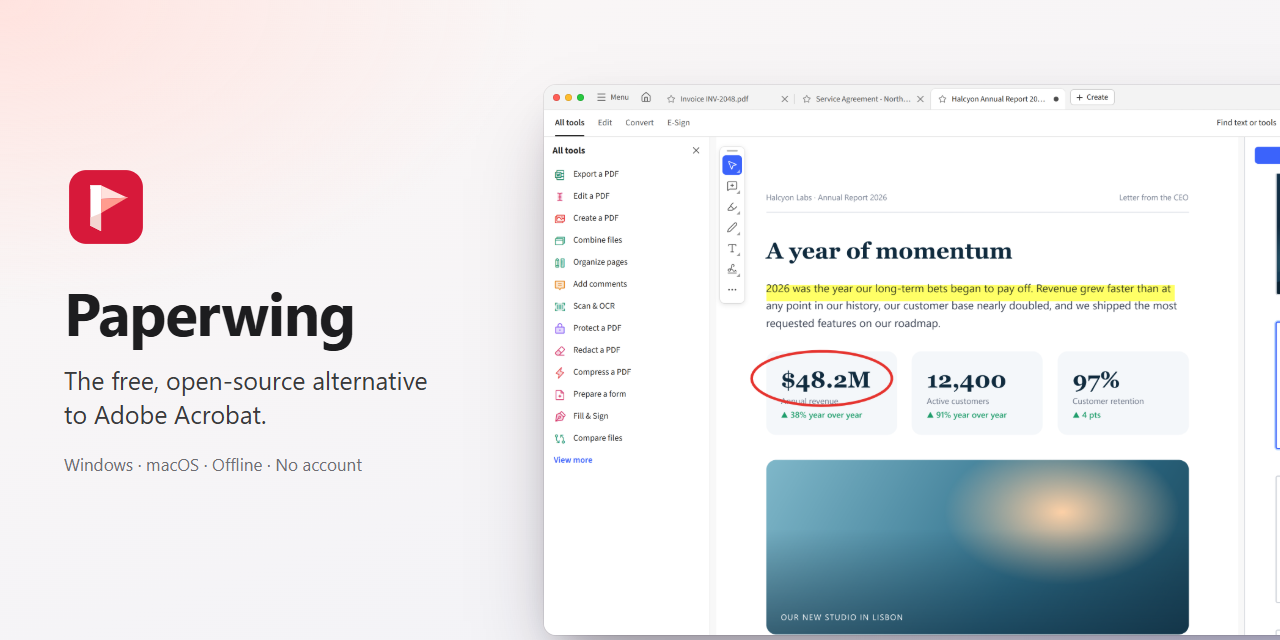
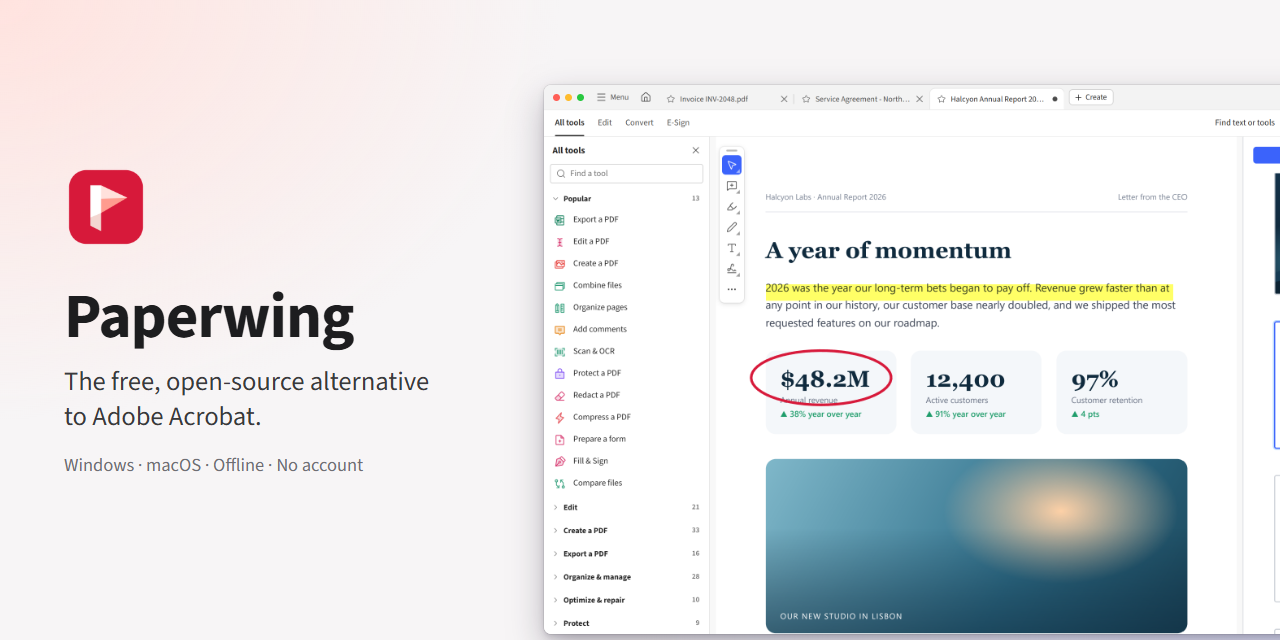
Regenerate the social preview image too
It showed the old tools sidebar. The screenshot script's hero scene now
also renders social-preview.png (1280×640, same layout as before) from
the same capture. GitHub uses it once it's uploaded in the repository
settings.

diff --git a/docs/BUILDING.md b/docs/BUILDING.md
@@ -70,8 +70,8 @@ cd .. && npx vite preview --port 4173      # leave it running
 cd desktop && PAPERWING_URL=http://localhost:4173 npm run docs:screenshots   # or only some: hero home
 ```
 
-`social-preview.png`, the image GitHub shows when the repository is shared, isn't generated by the
-script; it's uploaded in the repository settings.
+`hero` also makes `social-preview.png`, the image GitHub shows when the repository is shared. GitHub
+uses it only once it's uploaded in the repository's **Settings ▸ General ▸ Social preview**.
 
 ## Packaging
 
